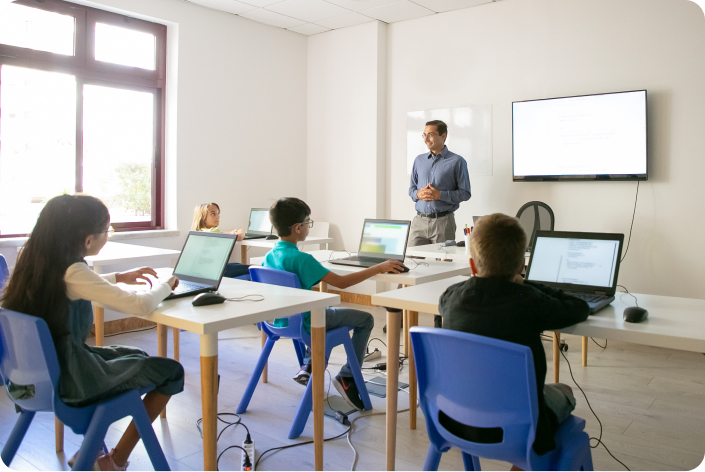
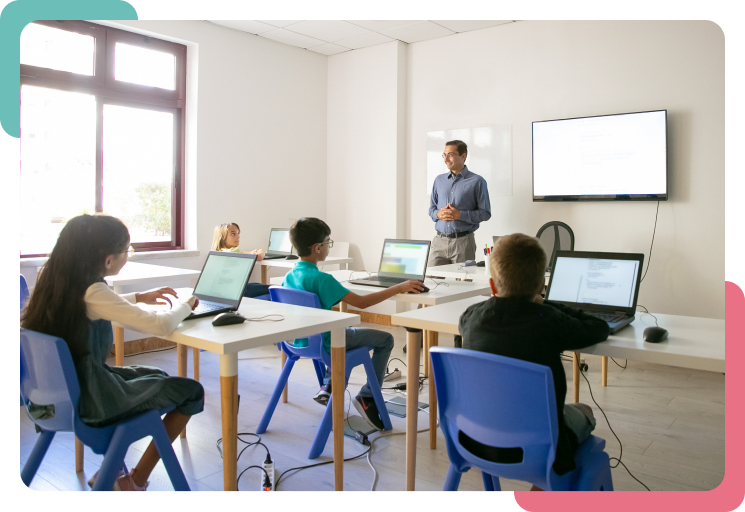
add initial files

diff --git a/assets/styles/main.css b/assets/styles/main.css
@@ -1046,7 +1046,6 @@ h1, h2, h3, h4, h5, h6, p {
   position: relative;
   width: 745px;
   height: 515px;
-  margin: 20px 20px 20px 0;
   border-radius: 20px;
   background-image: url(/assets/images/about-elearn/confident-teacher-explaining-lesson-pupils.jpg);
   background-repeat: no-repeat;
@@ -1208,9 +1207,9 @@ h1, h2, h3, h4, h5, h6, p {
 }
 
 .features-section__img-classroom {
-  width: 940px;
-  height: 565px;
-  margin-top: 175px;
+  width: 900px;
+  height: 650px;
+  margin-top: 110px;
 }
 
 .features-section__info-classroom--wrapper {
@@ -1289,7 +1288,7 @@ h1, h2, h3, h4, h5, h6, p {
 }
 
 .features-section__info-student--wrapper {
-  margin: 350px 0 0 70px;
+  margin: 330px 0 0 70px;
 }
 
 .features-section__subtitle-student {
@@ -1304,17 +1303,17 @@ h1, h2, h3, h4, h5, h6, p {
 .features-section__img-student {
   width: 637px;
   height: 611px;
-  margin-top: 195px;
+  margin: 145px 75px 0 0;
 }
 
 .features-section__img-question {
   width: 617px;
   height: 651px;
-  margin-top: 205px;
+  margin: 170px 0 0 5px;
 }
 
 .features-section__info-question--wrapper {
-  margin: 295px 0 0 250px;
+  margin: 305px 100px 0 0;
 }
 
 .features-section__subtitle-question {
@@ -1327,7 +1326,7 @@ h1, h2, h3, h4, h5, h6, p {
 }
 
 .features-section__info-gradebook--wrapper {
-  margin: 320px 0 0 70px;
+  margin-top: 285px;
 }
 
 .features-section__subtitle-gradebook {
@@ -1340,19 +1339,19 @@ h1, h2, h3, h4, h5, h6, p {
 }
 
 .features-section__img-gradebook {
-  width: 790px;
-  height: 555px;
-  margin-top: 210px;
+  width: 810px;
+  height: 560px;
+  margin-top: 145px;
 }
 
 .features-section__img-discussion {
   width: 755px;
   height: 570px;
-  margin-top: 160px;
+  margin: 145px 0 0 5px;
 }
 
 .features-section__info-discussion--wrapper {
-  margin: 275px 0 0 190px;
+  margin: 260px 60px 0 0;
 }
 
 .features-section__subtitle-discussion {
@@ -1365,7 +1364,7 @@ h1, h2, h3, h4, h5, h6, p {
 }
 
 .features-section__btn-see {
-  margin: 0 auto;
+  margin: 100px auto 0 auto;
   color: #EA5E94;
   border: 1px solid #EA5E94;
 }

diff --git a/assets/styles/blocks/_features.scss b/assets/styles/blocks/_features.scss
@@ -22,9 +22,9 @@
     }
 
     &__img-classroom {
-        width: 940px;
-        height: 565px;
-        margin-top: 175px;
+        width: 900px;
+        height: 650px;
+        margin-top: 110px;
     }
 
     &__info-classroom--wrapper {
@@ -96,7 +96,7 @@
     }
 
     &__info-student--wrapper {
-        margin: 350px 0 0 70px;
+        margin: 330px 0 0 70px;
     }
 
     &__subtitle-student {
@@ -111,17 +111,17 @@
     &__img-student {
         width: 637px;
         height: 611px;
-        margin-top: 195px;
+        margin: 145px 75px 0 0;
     }
 
     &__img-question {
         width: 617px;
         height: 651px;
-        margin-top: 205px;
+        margin: 170px 0 0 5px;
     }
 
     &__info-question--wrapper {
-        margin: 295px 0 0 250px;
+        margin: 305px 100px 0 0;
     }
 
     &__subtitle-question {
@@ -134,7 +134,7 @@
     }
 
     &__info-gradebook--wrapper {
-        margin: 320px 0 0 70px;
+        margin-top: 285px;
     }
 
     &__subtitle-gradebook {
@@ -147,19 +147,19 @@
     }
 
     &__img-gradebook {
-        width: 790px;
-        height: 555px;
-        margin-top: 210px;
+        width: 810px;
+        height: 560px;
+        margin-top: 145px;
     }
 
     &__img-discussion {
         width: 755px;
         height: 570px;
-        margin-top: 160px;
+        margin: 145px 0 0 5px;
     }
 
     &__info-discussion--wrapper {
-        margin: 275px 0 0 190px;
+        margin: 260px 60px 0 0;
     }
 
     &__subtitle-discussion {
@@ -172,7 +172,7 @@
     }
 
     &__btn-see {
-        margin: 0 auto;
+        margin: 100px auto 0 auto;
         color: $colorAction;
         border: 1px solid $colorAction;
 

diff --git a/assets/styles/blocks/_about-elearn.scss b/assets/styles/blocks/_about-elearn.scss
@@ -119,7 +119,6 @@
         position: relative;
         width: 745px;
         height: 515px;
-        margin: 20px 20px 20px 0;
         border-radius: 20px;
         background-image: url(/assets/images/about-elearn/confident-teacher-explaining-lesson-pupils.jpg);
         background-repeat: no-repeat;
